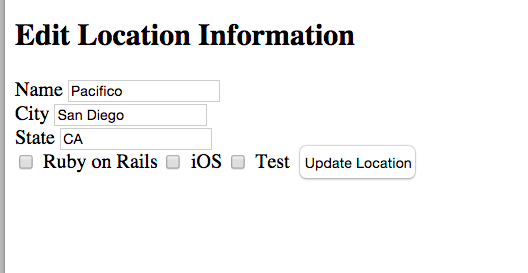
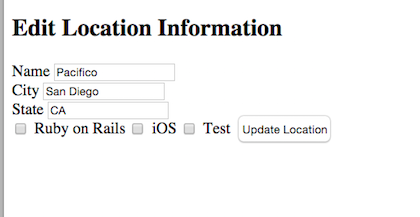
removed unneeded pics and changed background color

diff --git a/assets/css/main.css b/assets/css/main.css
@@ -2166,7 +2166,7 @@
 			}
 
 			#main > section.two {
-				background-color: #f5fafa;
+				background-color: #ffffcc;
 			}
 
 			#main > section.three {
